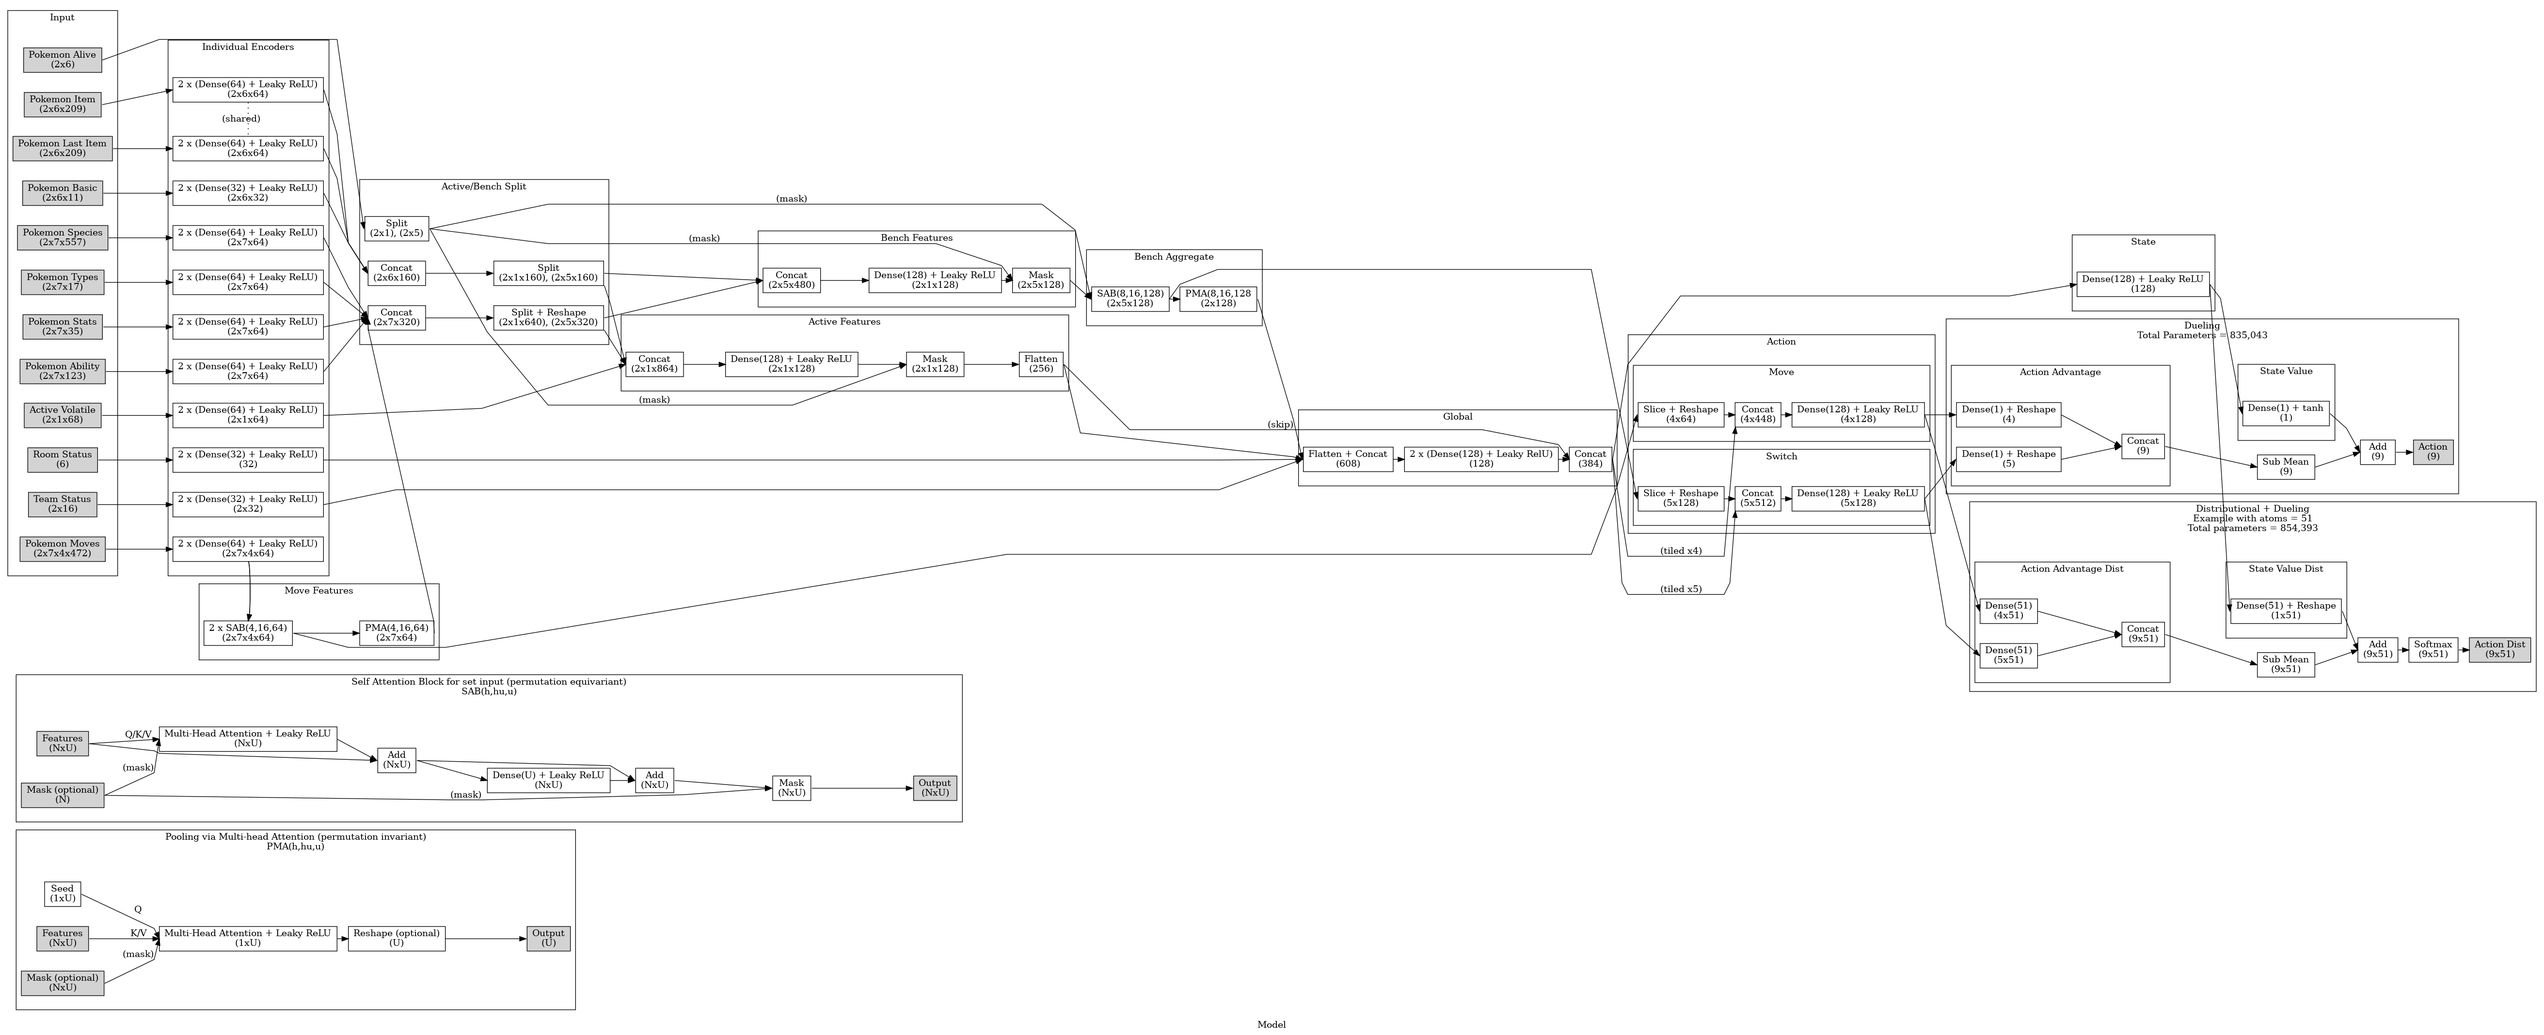
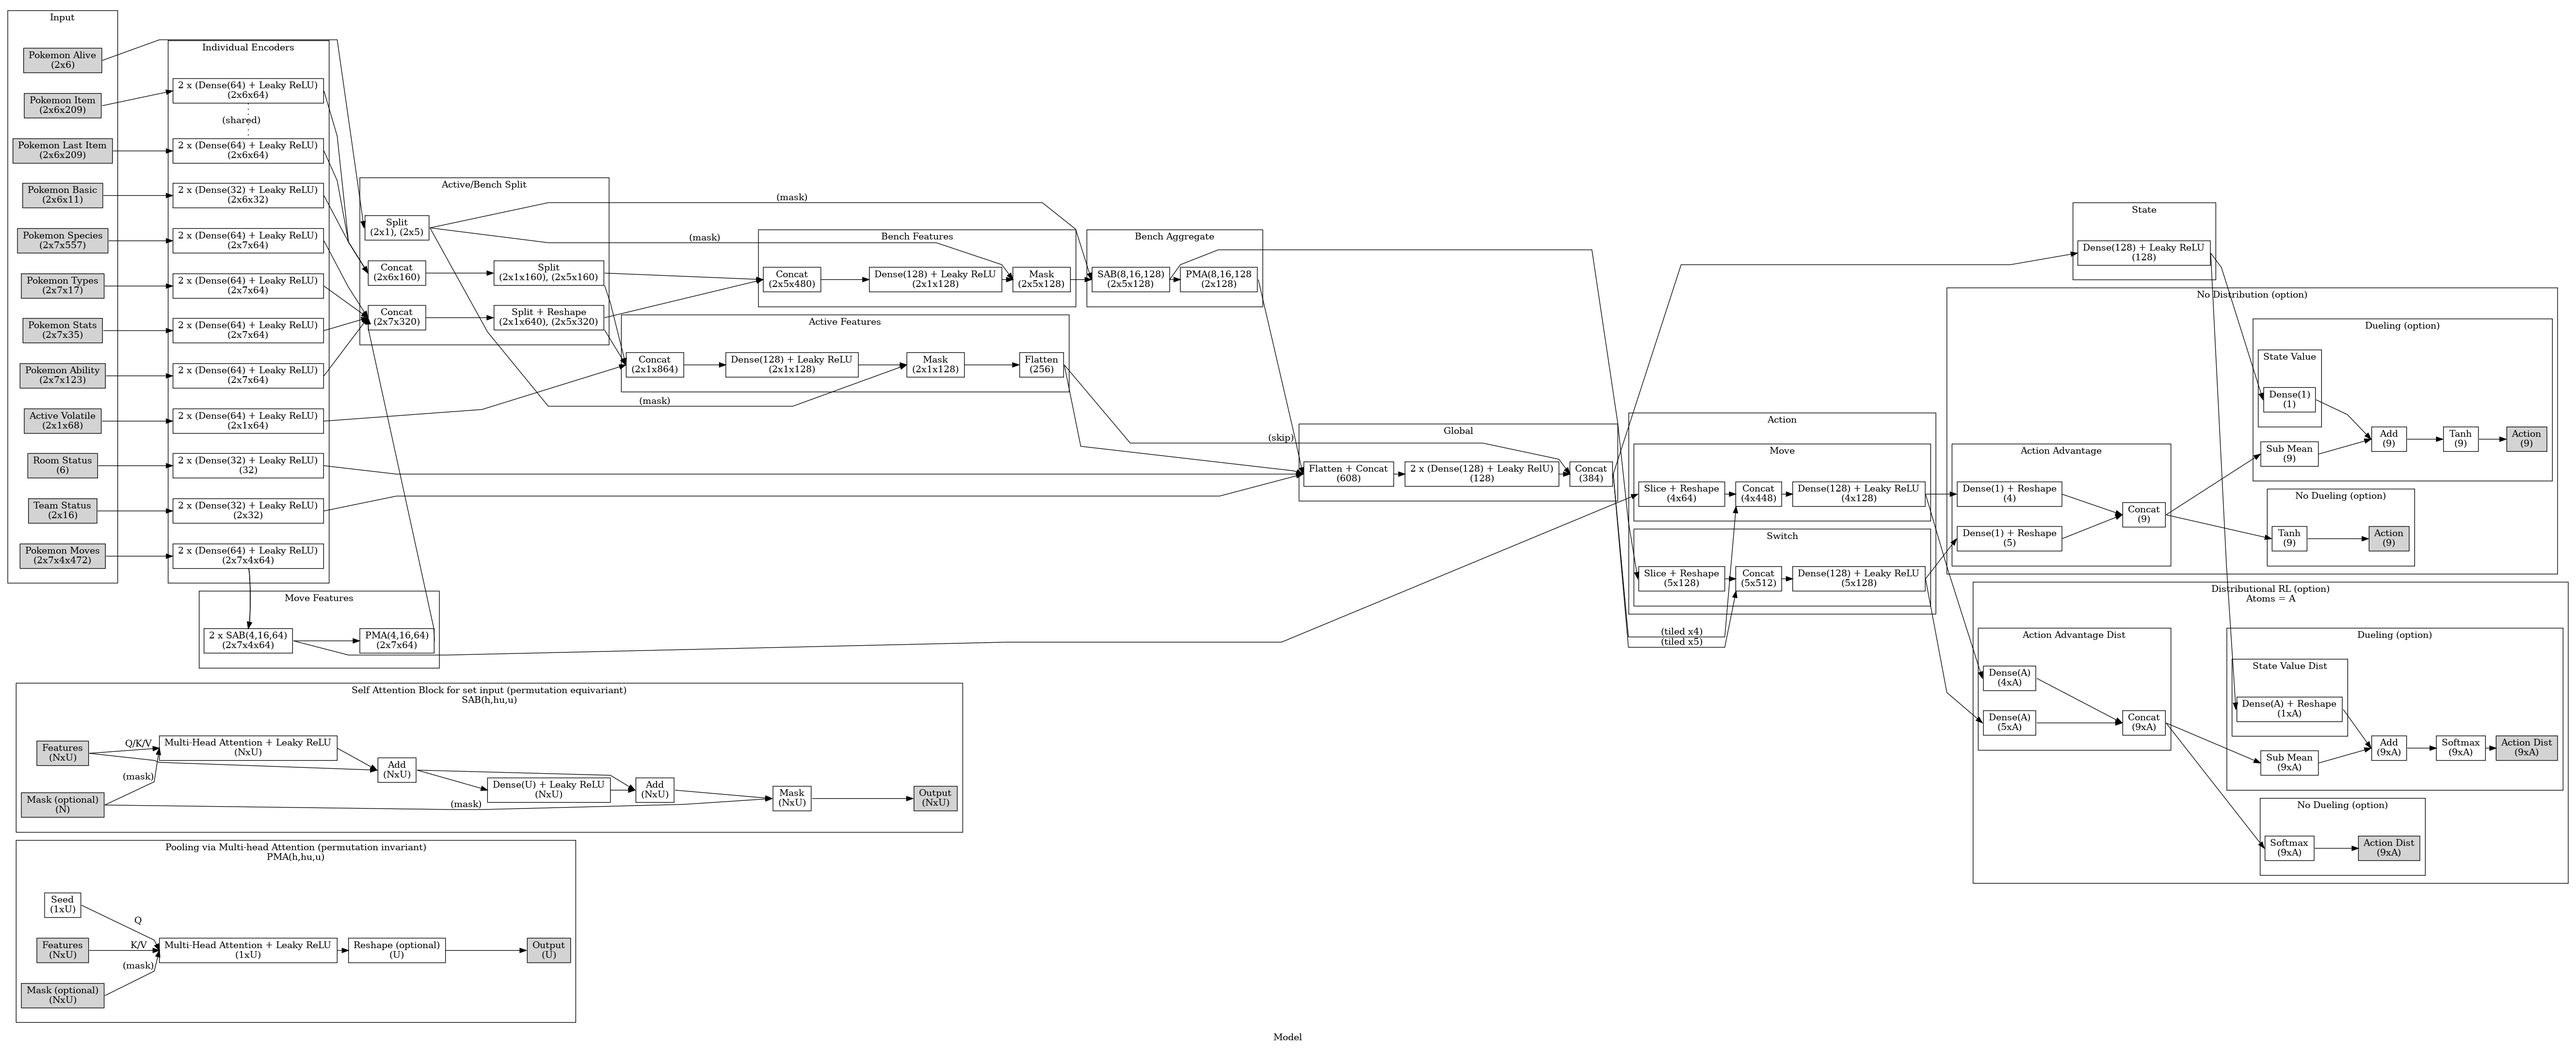
Add option to disable dueling
Also fix tanh usage in Q-value calcs.

diff --git a/src/model/model.ts b/src/model/model.ts
@@ -268,15 +268,20 @@ export function createModel(
         .concatenate({name: `${name}/action/concat`, axis: 1})
         .apply([actionMove, actionSwitch]) as tf.SymbolicTensor;
 
-    const value = stateValue({
-        name,
-        label: "state",
-        units: 128,
-        ...(config?.dist && {atoms: config.dist}),
-        ...(random && {random}),
-    })(global);
+    let q: tf.SymbolicTensor;
+    if (!config?.dueling) {
+        q = qValue(name, "action", config?.dist)(advantage);
+    } else {
+        const value = stateValue({
+            name,
+            label: "state",
+            units: 128,
+            ...(config.dist && {atoms: config.dist}),
+            ...(random && {random}),
+        })(global);
 
-    const q = dueling(name, "action", config?.dist)(advantage, value);
+        q = qDueling(name, "action", config.dist)(advantage, value);
+    }
 
     //#endregion
 
@@ -821,8 +826,6 @@ function stateValue({
     const denseLayer2 = tf.layers.dense({
         name: `${name}/${label}/value/dense_2`,
         units: atoms ?? 1,
-        // Reward in range [-1, 1].
-        activation: atoms ? "linear" : "tanh",
         kernelInitializer: tf.initializers.glorotNormal({seed: random?.()}),
         biasInitializer: "zeros",
     });
@@ -844,7 +847,7 @@ function stateValue({
 }
 
 /**
- * Creates a layer that computes Q-value from action advantages and state value.
+ * Creates a layer that computes the Q-value from action advantages.
  *
  * @param name Name of model.
  * @param label Name of module.
@@ -854,7 +857,34 @@ function stateValue({
  * the value distribution.
  * @returns A function to compute the Q-values.
  */
-function dueling(
+function qValue(
+    name: string,
+    label: string,
+    atoms?: number,
+): (advantage: tf.SymbolicTensor) => tf.SymbolicTensor {
+    const activationLayer = atoms
+        ? tf.layers.softmax({name: `${name}/${label}/softmax`, axis: -1})
+        : tf.layers.activation({
+              // Reward in range [-1, 1].
+              name: `${name}/${label}/tanh`,
+              activation: "tanh",
+          });
+    return advantage => activationLayer.apply(advantage) as tf.SymbolicTensor;
+}
+
+/**
+ * Creates a layer that computes Q-value from action advantages and state value
+ * using a dueling architecture.
+ *
+ * @param name Name of model.
+ * @param label Name of module.
+ * @param atoms If defined, the function will compute the softmax value
+ * distribution for each action rather than a single value per action. The
+ * number specifies the number of atoms with which to construct the support of
+ * the value distribution.
+ * @returns A function to compute the Q-values.
+ */
+function qDueling(
     name: string,
     label: string,
     atoms?: number,

diff --git a/src/config/types.ts b/src/config/types.ts
@@ -102,6 +102,8 @@ export interface BatchPredictConfig {
 
 /** Configuration for the neural network model. */
 export interface ModelConfig {
+    /** Whether to use dueling network architecture. */
+    dueling?: boolean;
     /**
      * If defined, creates a distributional Q network instead of a regular one,
      * with the number specifying the number of atoms with which to construct

diff --git a/src/config/config.example.ts b/src/config/config.example.ts
@@ -45,6 +45,7 @@ export const config: Config = {
             timeoutNs: 10_000_000n /*10ms*/,
         },
         model: {
+            dueling: true,
             dist: 51,
         },
         rollout: {
